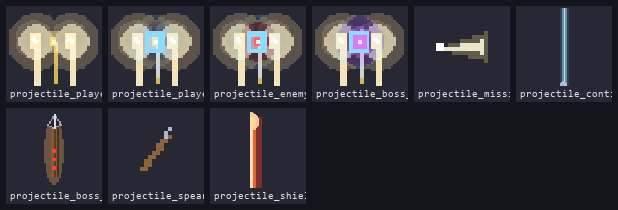
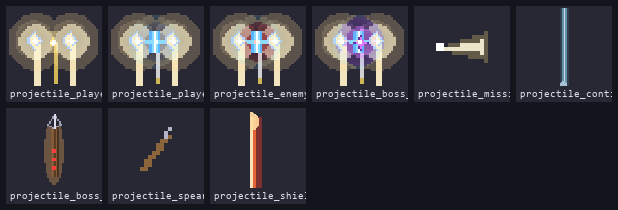
fix BLOQUE 58.38 - proyectiles con forma (diamonds/star/cross)

diff --git a/src/systems/projectile.py b/src/systems/projectile.py
@@ -271,7 +271,16 @@ class ProjectilePool:
     def _make_bullet_sprite(
         self, kind: int, w: int, h: int, scale: float, color: tuple[int, int, int]
     ) -> pygame.Surface:
-        """Create a bullet sprite with optional glow halo (charged)."""
+        """BLOQUE 58.38: create a bullet sprite with kind-specific shape.
+
+        Each kind has a distinctive silhouette so the player can read what's
+        coming at them at a glance:
+          - BULLET_PLAYER         : gold diamond (pointed top + bottom)
+          - BULLET_PLAYER_CHARGED : bigger blue-white diamond with glow halo
+          - BULLET_PLAYER_BEAM    : vertical cyan plasma beam (cross-shape)
+          - BULLET_ENEMY          : small red orb with halo
+          - BULLET_BOSS           : 4-point purple star with halo
+        """
         # Compute scaled size (round up so glow halo doesn't truncate)
         sw = max(1, int(math.ceil(w * scale)))
         sh = max(1, int(h * scale))
@@ -282,37 +291,150 @@ class ProjectilePool:
             halo = 7
         elif kind == BULLET_PLAYER_CHARGED:
             halo = 6
+        elif kind == BULLET_BOSS:
+            halo = 4
         else:
             halo = 0
         canvas_w = sw + halo * 2
         canvas_h = sh + halo * 2
         surf = pygame.Surface((canvas_w, canvas_h), pygame.SRCALPHA)
-        # Halo (soft alpha falloff)
+        cx, cy = canvas_w // 2, canvas_h // 2
+        # ------------------------------------------------------------------
+        # Halo (soft alpha falloff) — same logic for all kinds
+        # ------------------------------------------------------------------
         if halo > 0:
             for r in range(halo, 0, -1):
-                # BLOQUE 36: beam halo alpha softened (60→42) and uses plasma cyan tint
                 a = int(42 * (r / halo)) if kind == BULLET_PLAYER_BEAM else int(40 * (r / halo))
                 pygame.draw.circle(
                     surf,
                     (color[0], color[1], color[2], a),
-                    (canvas_w // 2, canvas_h // 2),
+                    (cx, cy),
                     max(sw, sh) // 2 + r,
                 )
-        # Core
-        rect = pygame.Rect(0, 0, sw, sh)
-        rect.center = (canvas_w // 2, canvas_h // 2)
-        pygame.draw.rect(surf, color, rect)
-        # Bright core highlight
-        if kind in (BULLET_PLAYER, BULLET_PLAYER_CHARGED, BULLET_PLAYER_BEAM):
-            highlight = pygame.Rect(0, 0, max(1, sw // 2), max(1, sh // 3))
-            highlight.center = rect.center
-            # BLOQUE 36: beam core highlight now cyan-white, not pure white
-            hl_color = (220, 245, 255) if kind == BULLET_PLAYER_BEAM else (255, 255, 255)
-            pygame.draw.rect(surf, hl_color, highlight)
-        # BLOQUE 36: beam inner ring — softer alpha and cyan-white (was 200 / pure white)
-        if kind == BULLET_PLAYER_BEAM:
+        # ------------------------------------------------------------------
+        # Body: kind-specific shape
+        # ------------------------------------------------------------------
+        if kind == BULLET_PLAYER:
+            # Gold diamond (pointed top + bottom, wider middle)
+            half_w = max(1, sw // 2)
+            half_h = max(1, sh // 2)
+            diamond = [
+                (cx, cy - half_h),         # top point
+                (cx + half_w, cy),         # right point
+                (cx, cy + half_h),         # bottom point
+                (cx - half_w, cy),         # left point
+            ]
+            pygame.draw.polygon(surf, color, diamond)
+            # White core highlight (smaller diamond)
+            hl_half_w = max(1, half_w // 2)
+            hl_half_h = max(1, half_h // 2)
+            highlight = [
+                (cx, cy - hl_half_h),
+                (cx + hl_half_w, cy),
+                (cx, cy + hl_half_h),
+                (cx - hl_half_w, cy),
+            ]
+            pygame.draw.polygon(surf, (255, 255, 255), highlight)
+        elif kind == BULLET_PLAYER_CHARGED:
+            # Bigger blue-white diamond (sharp + piercing)
+            half_w = max(2, sw // 2)
+            half_h = max(2, sh // 2)
+            diamond = [
+                (cx, cy - half_h),
+                (cx + half_w, cy),
+                (cx, cy + half_h),
+                (cx - half_w, cy),
+            ]
+            # Darker outer ring (the "armor" of the charged shot)
+            outer = [
+                (cx, cy - half_h - 1),
+                (cx + half_w + 1, cy),
+                (cx, cy + half_h + 1),
+                (cx - half_w - 1, cy),
+            ]
+            pygame.draw.polygon(surf, (180, 210, 255), outer)
+            pygame.draw.polygon(surf, color, diamond)
+            # Bright white core
+            hl_half_w = max(1, half_w // 2)
+            hl_half_h = max(1, half_h // 2)
+            core = [
+                (cx, cy - hl_half_h),
+                (cx + hl_half_w, cy),
+                (cx, cy + hl_half_h),
+                (cx - hl_half_w, cy),
+            ]
+            pygame.draw.polygon(surf, (255, 255, 255), core)
+        elif kind == BULLET_PLAYER_BEAM:
+            # Vertical plasma beam: cross-shape (tall + thin) with cyan glow
+            beam_w = max(2, sw // 3)
+            beam_h = sh
+            # Outer cyan shell (wider)
+            shell_w = beam_w + 2
             pygame.draw.rect(
-                surf, (210, 240, 255, 150),
-                (canvas_w // 2 - sw // 4, canvas_h // 2 - sh // 4, sw // 2, sh // 2),
+                surf, (90, 180, 255),
+                (cx - shell_w // 2, cy - beam_h // 2, shell_w, beam_h),
             )
+            # Inner beam
+            pygame.draw.rect(
+                surf, color,
+                (cx - beam_w // 2, cy - beam_h // 2, beam_w, beam_h),
+            )
+            # White-hot center
+            core_w = max(1, beam_w // 2)
+            pygame.draw.rect(
+                surf, (255, 255, 255),
+                (cx - core_w // 2, cy - beam_h // 2, core_w, beam_h),
+            )
+            # Horizontal cross-guard (gives it a "+" silhouette)
+            guard_w = max(4, sw)
+            guard_h = max(1, beam_h // 4)
+            pygame.draw.rect(
+                surf, (140, 220, 255),
+                (cx - guard_w // 2, cy - guard_h // 2, guard_w, guard_h),
+            )
+        elif kind == BULLET_ENEMY:
+            # Small red orb (downward-pointing teardrop)
+            orb_r = max(1, min(sw, sh) // 2)
+            pygame.draw.circle(surf, color, (cx, cy), orb_r)
+            # Darker red core (the "hot center")
+            core_r = max(1, orb_r - 1)
+            pygame.draw.circle(surf, (180, 30, 30), (cx, cy), core_r)
+            # Bright pink-white center dot
+            pygame.draw.circle(surf, (255, 200, 200), (cx, cy), max(1, orb_r // 2))
+        elif kind == BULLET_BOSS:
+            # 4-point purple star (sharp + menacing)
+            star_outer = max(sw, sh) // 2
+            star_inner = max(1, star_outer // 2)
+            star = [
+                (cx, cy - star_outer),                              # top
+                (cx + star_inner, cy - star_inner),                 # top-right
+                (cx + star_outer, cy),                              # right
+                (cx + star_inner, cy + star_inner),                 # bottom-right
+                (cx, cy + star_outer),                              # bottom
+                (cx - star_inner, cy + star_inner),                 # bottom-left
+                (cx - star_outer, cy),                              # left
+                (cx - star_inner, cy - star_inner),                 # top-left
+            ]
+            pygame.draw.polygon(surf, (100, 50, 160), star)  # dark outer
+            # Inner bright purple
+            inner_outer = max(1, star_outer - 1)
+            inner_inner = max(1, star_inner - 1)
+            star2 = [
+                (cx, cy - inner_outer),
+                (cx + inner_inner, cy - inner_inner),
+                (cx + inner_outer, cy),
+                (cx + inner_inner, cy + inner_inner),
+                (cx, cy + inner_outer),
+                (cx - inner_inner, cy + inner_inner),
+                (cx - inner_outer, cy),
+                (cx - inner_inner, cy - inner_inner),
+            ]
+            pygame.draw.polygon(surf, color, star2)
+            # White hot center
+            pygame.draw.circle(surf, (255, 255, 255), (cx, cy), 1)
+        else:
+            # Fallback (shouldn't happen): just a rect
+            rect = pygame.Rect(0, 0, sw, sh)
+            rect.center = (cx, cy)
+            pygame.draw.rect(surf, color, rect)
         return surf
